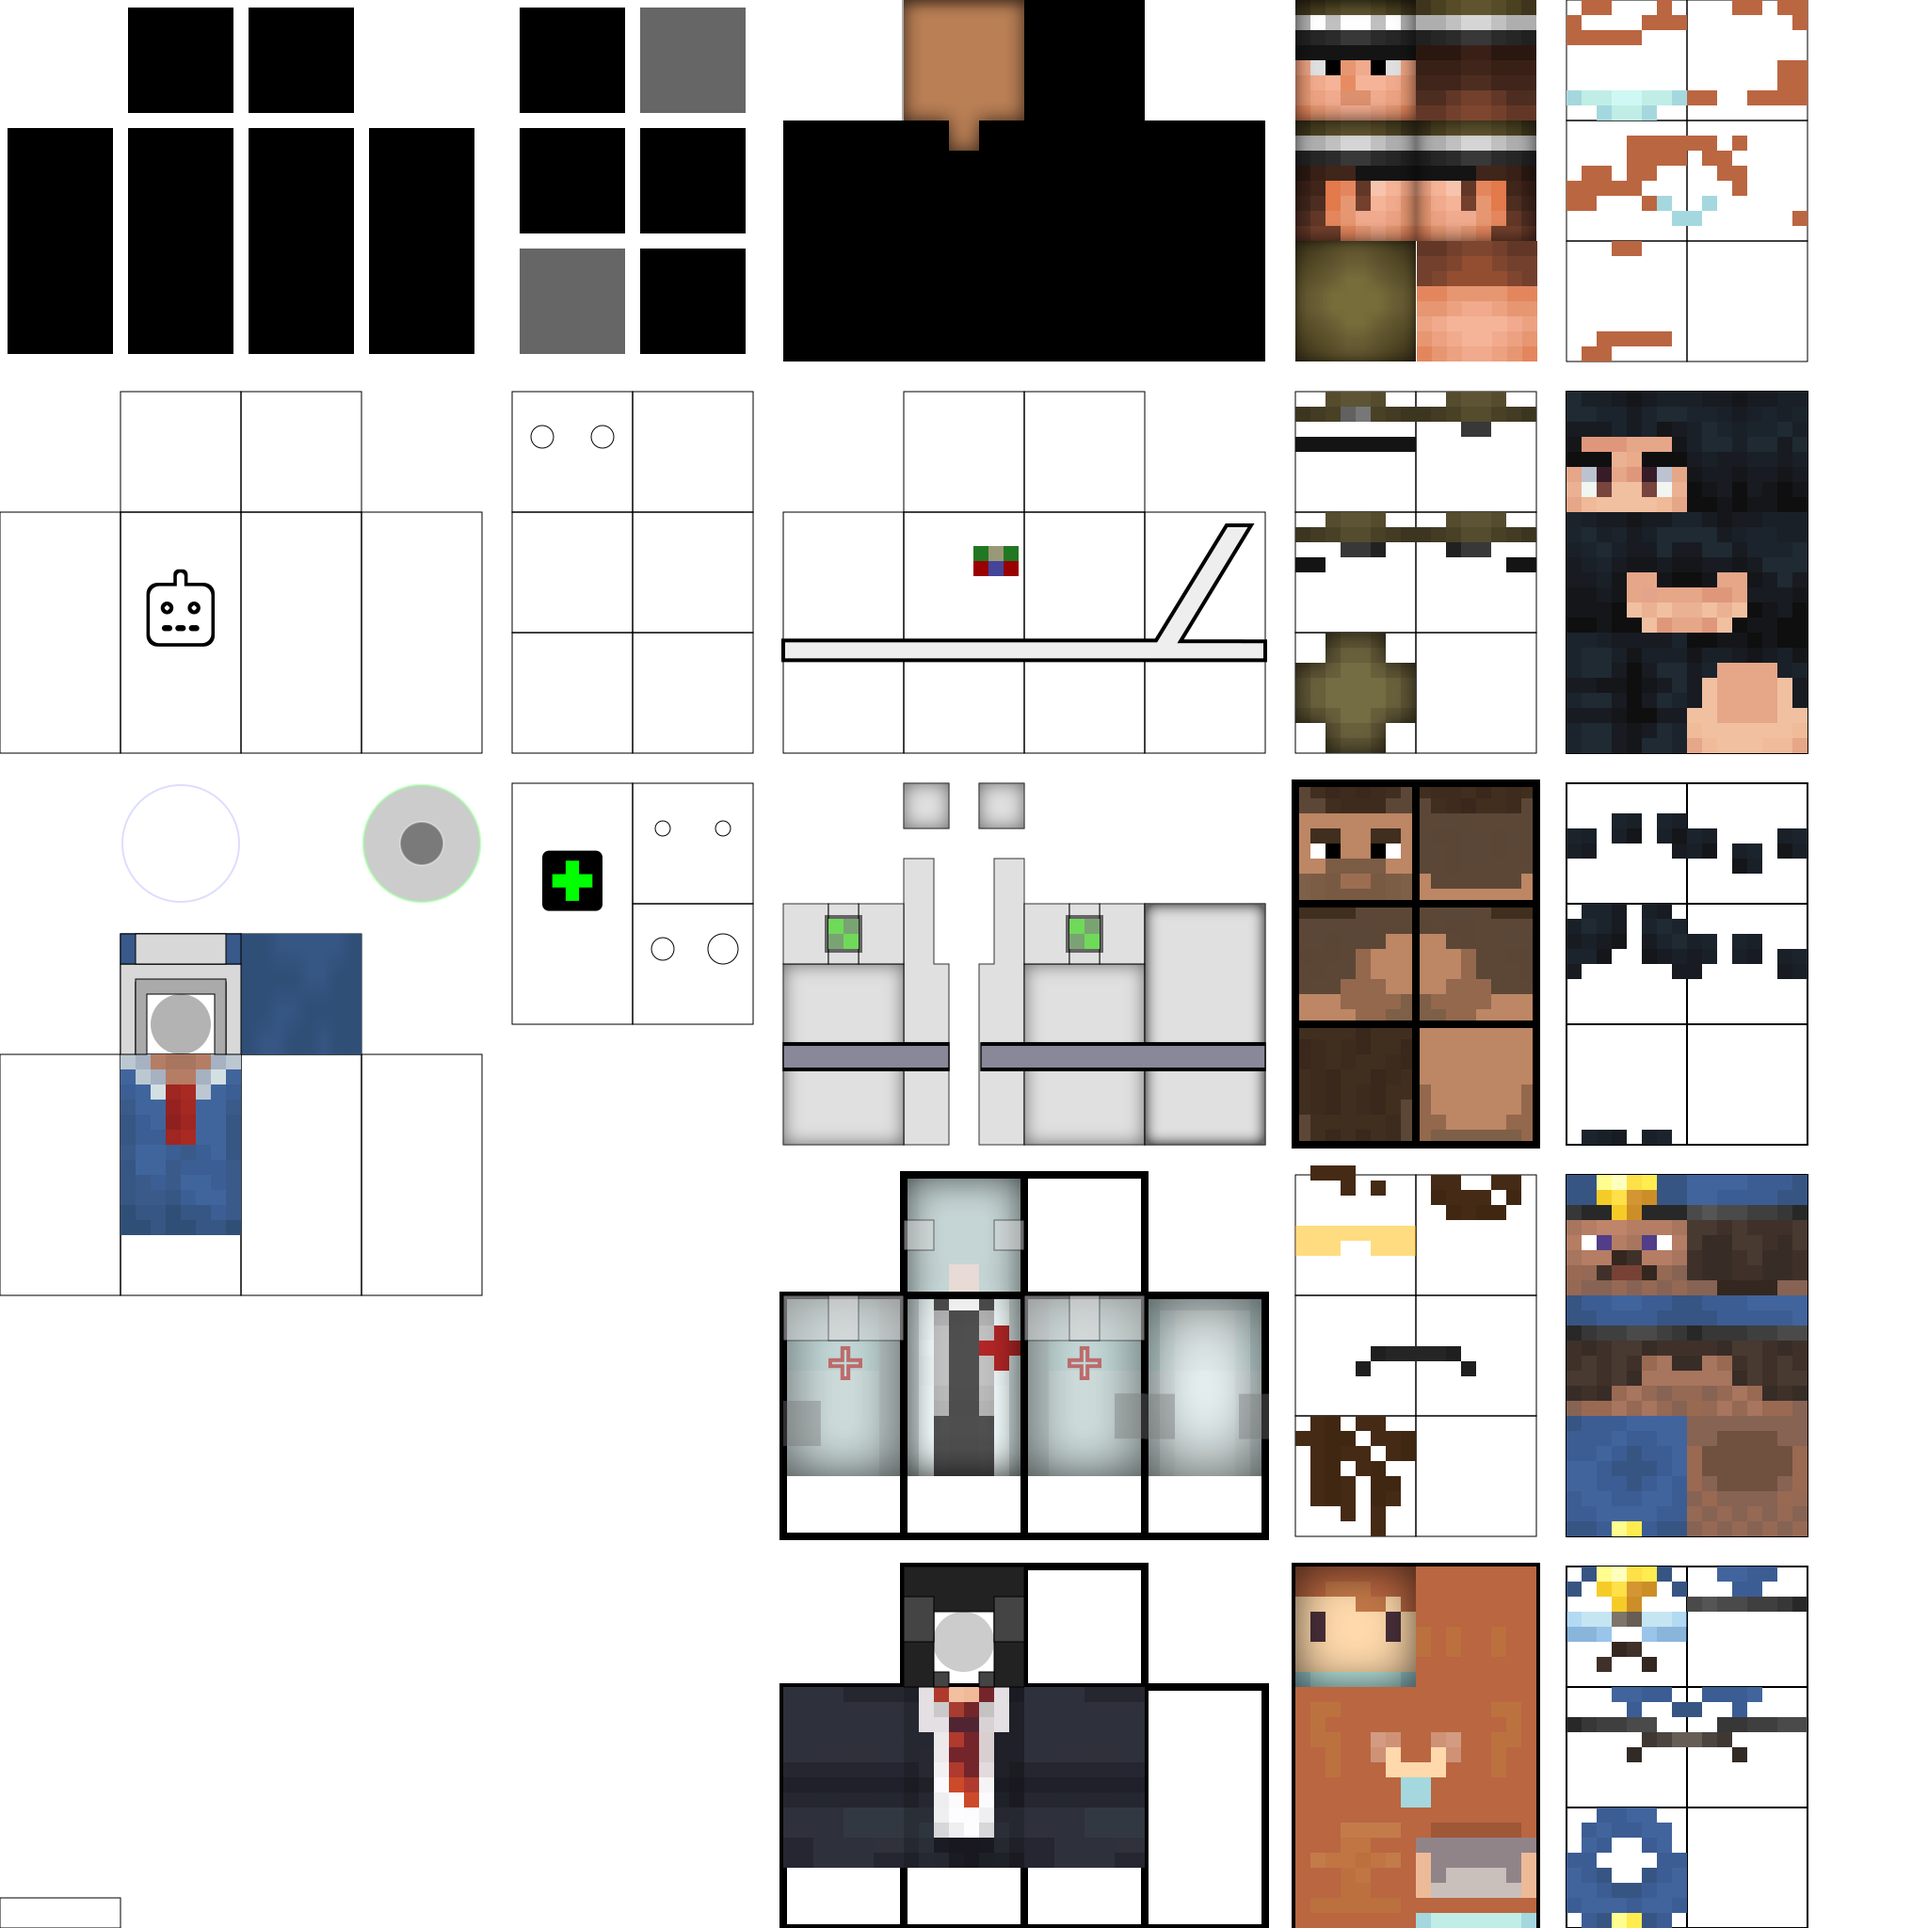
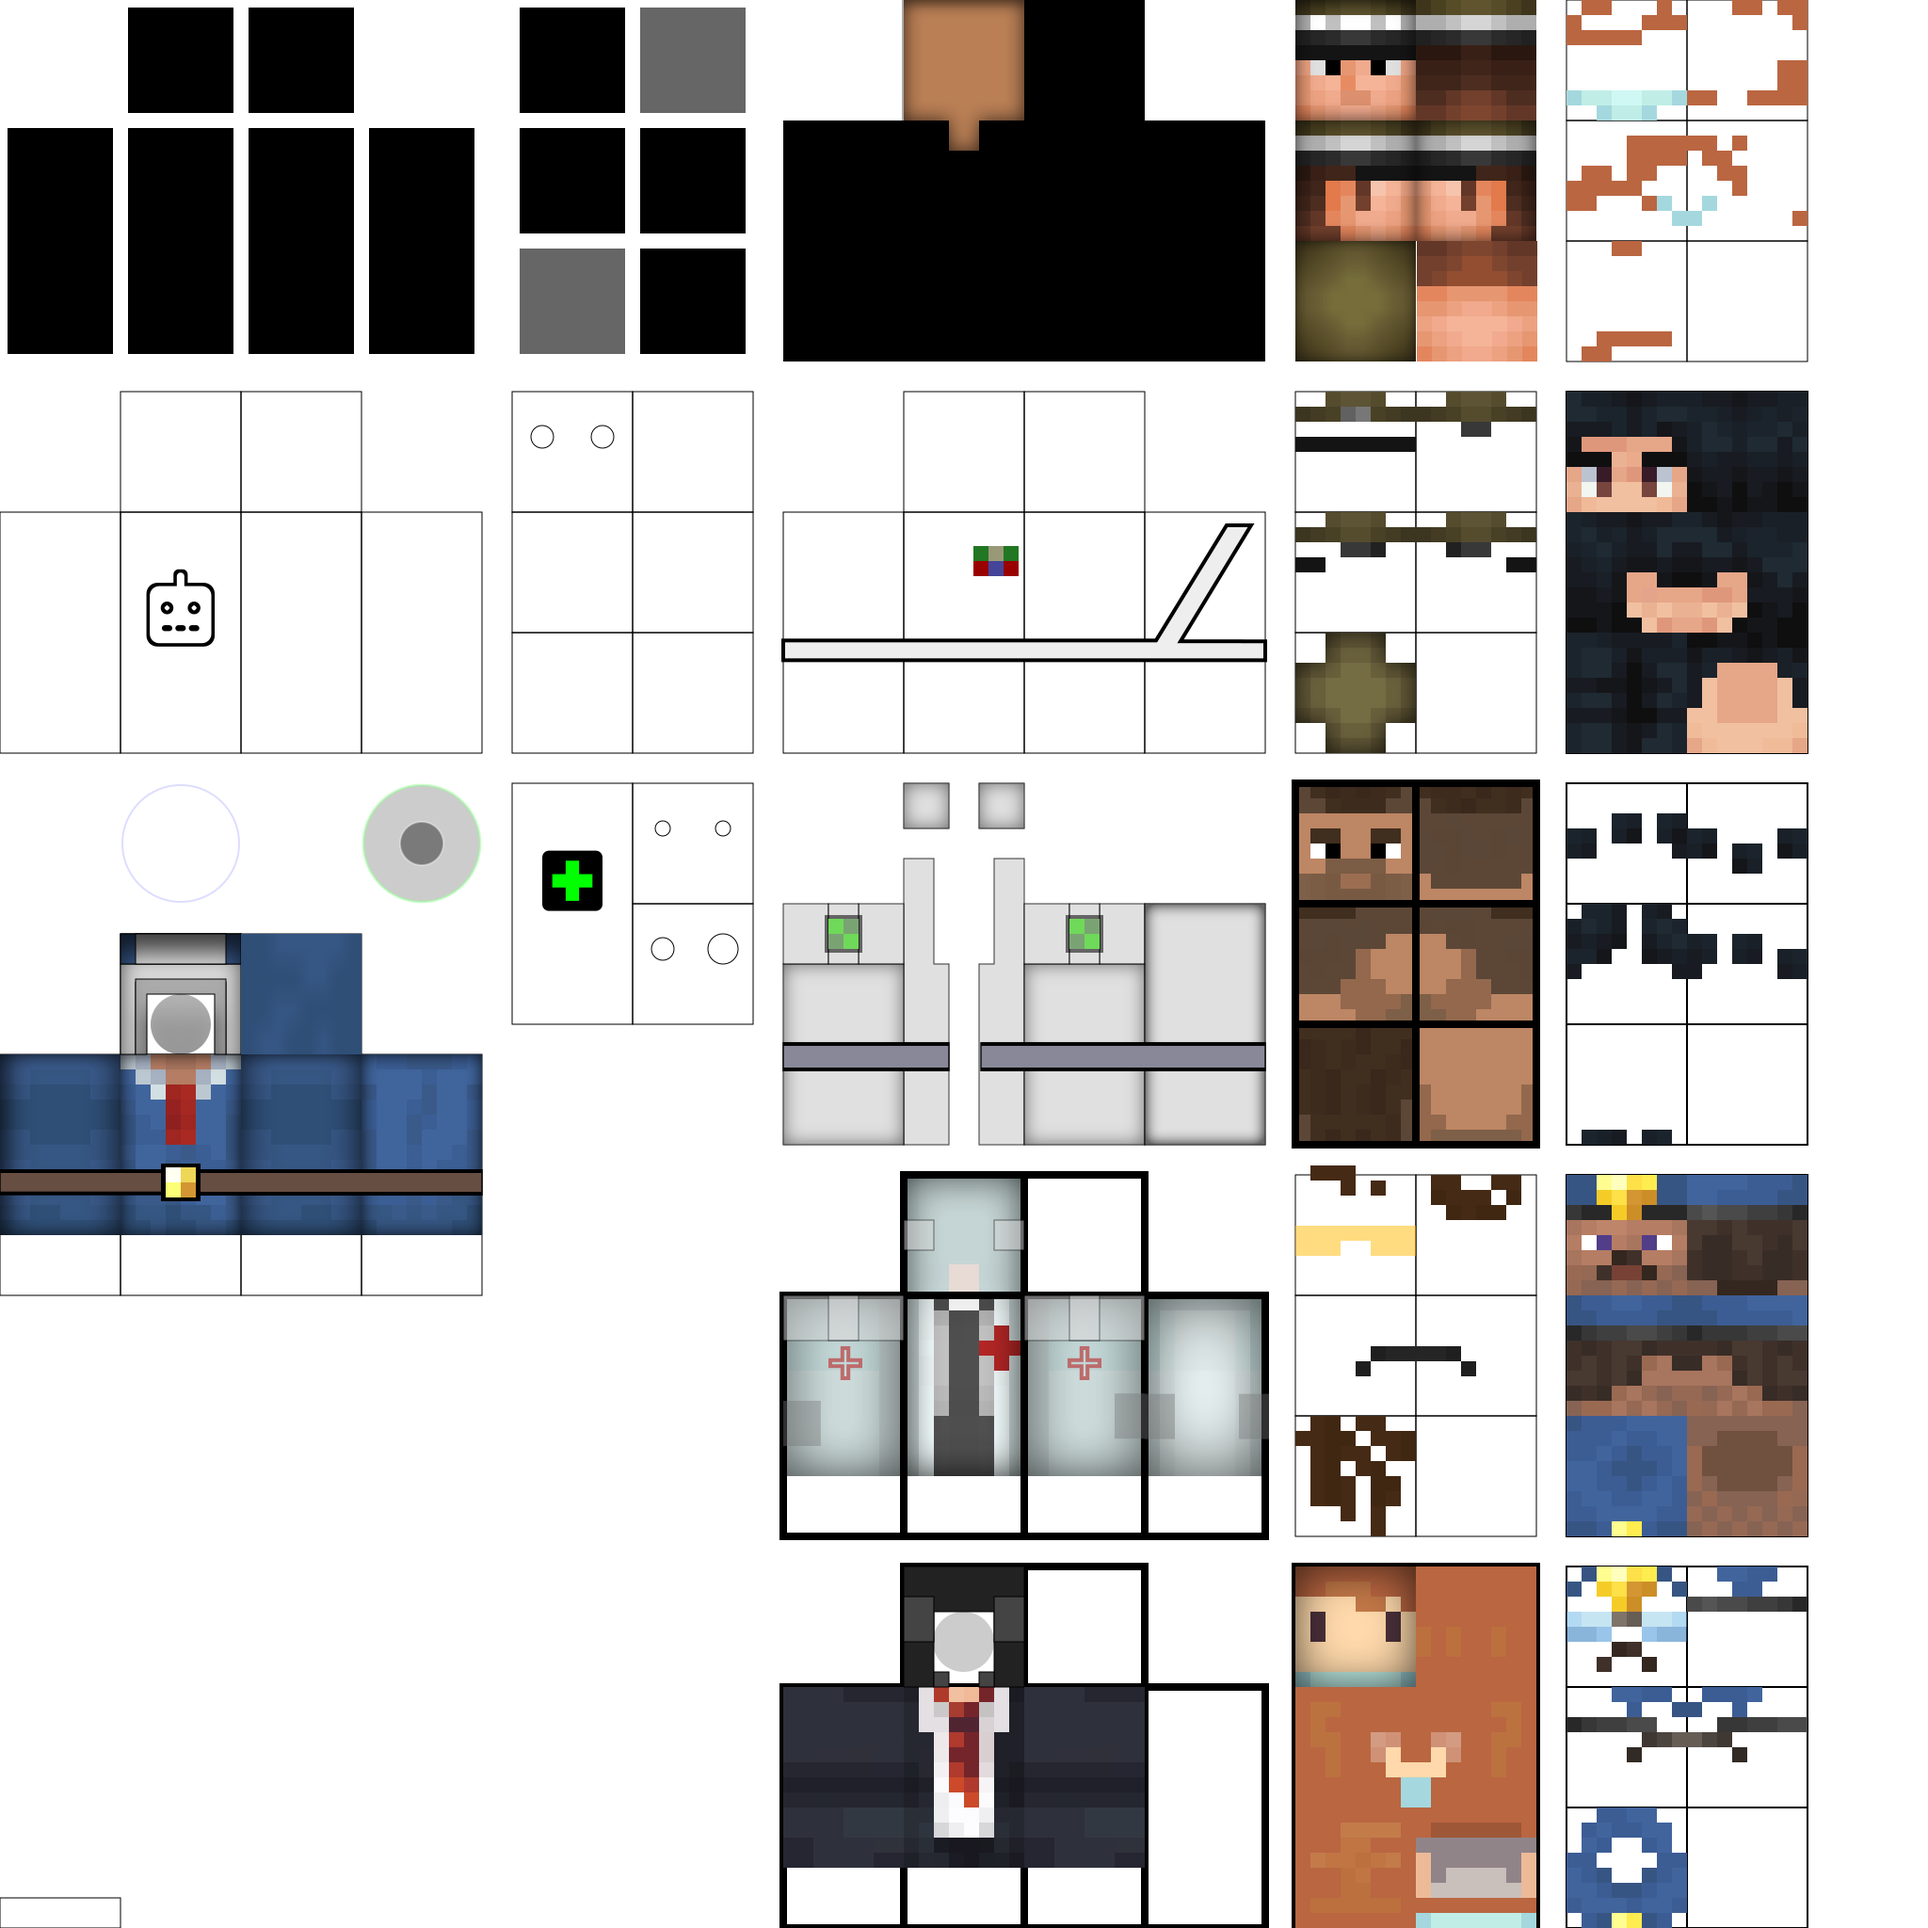
feat: skin: migrated police-0

Changed region(s): [[0.0, 0.4688, 0.25, 0.6562]]

diff --git a/docs/TODO.md b/docs/TODO.md
@@ -54,12 +54,12 @@
 
 - bug: sit on chair, get off it, right click decor point: its meta should not be mutated
 
-- 🚧 three more minecraft skin migrations (total 5)
+- ✅ three more minecraft skin migrations (total 5)
   - ✅ medic-0
     - https://namemc.com/skin/194c3366860674c0
   - ✅ suit-0
     - https://namemc.com/skin/7271372bc0b9bc89
-  - 🚧 police-0
+  - ✅ police-0
     - https://namemc.com/skin/c06caf409cd8427e
 
 - 🚧 cleanup human-0 skin
